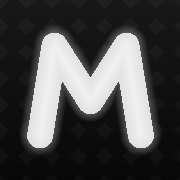
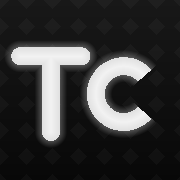
Renomeia marca para Tattoo Club (login, sistema, app e ícone TC)

Changed region(s): [[0.0278, 0.1389, 0.8889, 0.8611]]

diff --git a/index.html b/index.html
@@ -9,9 +9,9 @@
 <link rel="apple-touch-icon" href="icon-180.png">
 <meta name="apple-mobile-web-app-capable" content="yes">
 <meta name="apple-mobile-web-app-status-bar-style" content="black-translucent">
-<meta name="apple-mobile-web-app-title" content="Marquesani">
+<meta name="apple-mobile-web-app-title" content="Tattoo Club">
 <meta name="mobile-web-app-capable" content="yes">
-<title>Estúdio Marquesani • Club</title>
+<title>Tattoo Club</title>
 <style>
 :root{
   --bg:#0a0a0a; --surface:#181818; --surface2:#232323; --line:#3d3d3d;
@@ -57,7 +57,7 @@ input,select,textarea{font-family:inherit;font-size:15px}
 .brand-logo{width:44px;height:44px;border-radius:11px;flex:none;
   background:radial-gradient(circle at 30% 25%,#222222,#070707);
   border:1.5px solid var(--gold);display:flex;align-items:center;justify-content:center;
-  color:var(--gold2);font-family:var(--display);font-weight:400;font-size:26px;line-height:1;
+  color:var(--gold2);font-family:var(--display);font-weight:400;font-size:19px;line-height:1;letter-spacing:1px;
   box-shadow:var(--glow),inset 0 0 12px rgba(255,255,255,.22)}
 .brand-txt h1{font-family:var(--display);font-weight:400;font-size:21px;letter-spacing:1.5px;
   color:var(--gold2);text-shadow:0 0 14px rgba(255,255,255,.35)}
@@ -211,10 +211,10 @@ hr.sep{border:none;border-top:1px solid var(--line);margin:16px 0}
 <!-- ============ SIDEBAR ============ -->
 <aside class="sidebar">
   <div class="brand">
-    <div class="brand-logo">M</div>
+    <div class="brand-logo">TC</div>
     <div class="brand-txt">
-      <h1>MARQUESANI</h1>
-      <small>Club</small>
+      <h1>TATTOO CLUB</h1>
+      <small>Assinaturas</small>
     </div>
   </div>
   <nav class="nav">
@@ -320,7 +320,7 @@ hr.sep{border:none;border-top:1px solid var(--line);margin:16px 0}
   </div>
   <div class="card">
     <h2>ℹ Sobre</h2>
-    <p style="font-size:13px;color:var(--muted)">Sistema de controle de assinaturas do <b>Estúdio Marquesani Club</b>, baseado no regulamento oficial. Dados online (Supabase) — cada assinante acessa com login próprio e vê só o seu saldo.</p>
+    <p style="font-size:13px;color:var(--muted)">Sistema de controle de assinaturas do <b>Tattoo Club</b>, baseado no regulamento oficial. Dados online (Supabase) — cada assinante acessa com login próprio e vê só o seu saldo.</p>
   </div>
 </div>
 
@@ -335,22 +335,22 @@ hr.sep{border:none;border-top:1px solid var(--line);margin:16px 0}
 <style>
 #loginScreen{position:fixed;inset:0;z-index:60;display:flex;align-items:center;justify-content:center;padding:22px;background:radial-gradient(120% 80% at 50% 0,rgba(255,255,255,.06),transparent 60%),var(--bg)}
 .login-card{width:100%;max-width:360px;text-align:center}
-.login-logo{width:66px;height:66px;border-radius:16px;margin:0 auto 14px;display:flex;align-items:center;justify-content:center;font-family:var(--display);font-weight:400;font-size:38px;color:var(--gold2);background:radial-gradient(circle at 30% 25%,#232323,#050505);border:1.5px solid var(--gold);box-shadow:var(--glow)}
+.login-logo{width:66px;height:66px;border-radius:16px;margin:0 auto 14px;display:flex;align-items:center;justify-content:center;font-family:var(--display);font-weight:400;font-size:28px;letter-spacing:2px;color:var(--gold2);background:radial-gradient(circle at 30% 25%,#232323,#050505);border:1.5px solid var(--gold);box-shadow:var(--glow)}
 .login-card h1{font-family:var(--display);font-weight:400;letter-spacing:2px;font-size:26px;margin-bottom:2px}
 .login-card .sub{color:var(--muted);font-size:11px;letter-spacing:3px;text-transform:uppercase;margin-bottom:22px}
 .login-err{color:var(--red);font-size:13px;min-height:18px;margin:6px 0}
 #subScreen{min-height:100vh;display:flex;flex-direction:column}
 .sub-top{position:sticky;top:0;z-index:5;display:flex;align-items:center;gap:12px;padding:16px 18px;border-bottom:1px solid var(--line);background:rgba(11,9,6,.9);backdrop-filter:blur(10px)}
-.sub-top .lg{width:38px;height:38px;border-radius:10px;flex:none;display:flex;align-items:center;justify-content:center;font-family:var(--display);color:var(--gold2);border:1.5px solid var(--gold);font-size:20px}
+.sub-top .lg{width:38px;height:38px;border-radius:10px;flex:none;display:flex;align-items:center;justify-content:center;font-family:var(--display);color:var(--gold2);border:1.5px solid var(--gold);font-size:15px;letter-spacing:1px}
 .sub-top h2{font-family:var(--display);font-weight:400;letter-spacing:1px;font-size:18px;flex:1}
 .sub-wrap{max-width:560px;width:100%;margin:0 auto;padding:20px 18px 60px}
 </style>
 
 <div id="loginScreen" style="display:none">
   <div class="login-card">
-    <div class="login-logo">M</div>
-    <h1>MARQUESANI</h1>
-    <div class="sub">Club · Acesso</div>
+    <div class="login-logo">TC</div>
+    <h1>TATTOO CLUB</h1>
+    <div class="sub">Acesso</div>
     <label class="f" style="text-align:left"><span>E-mail</span>
       <input class="i" type="email" id="loginEmail" autocomplete="username" placeholder="voce@exemplo.com"></label>
     <label class="f" style="text-align:left"><span>Senha</span>
@@ -362,7 +362,7 @@ hr.sep{border:none;border-top:1px solid var(--line);margin:16px 0}
 
 <div id="subScreen" style="display:none">
   <div class="sub-top">
-    <div class="lg">M</div>
+    <div class="lg">TC</div>
     <h2 id="subHello">Olá</h2>
     <button class="btn danger sm" onclick="doLogout()">Sair</button>
   </div>
@@ -372,7 +372,7 @@ hr.sep{border:none;border-top:1px solid var(--line);margin:16px 0}
 <script src="supabase.min.js"></script>
 <script>
 /* ============================================================
-   ESTÚDIO MARQUESANI CLUB — dados + lógica
+   TATTOO CLUB — dados + lógica
    ============================================================ */
 const PLANOS = {
   FLASH:     {nome:'FLASH',     valor:150, bonus:20,  cor:'b-flash'},
@@ -891,7 +891,7 @@ function closeModal(){ document.getElementById('modalRoot').innerHTML=''; if(ME.
 function exportData(){
   const blob=new Blob([JSON.stringify(DB,null,2)],{type:'application/json'});
   const a=document.createElement('a'); a.href=URL.createObjectURL(blob);
-  a.download='marquesani-club-backup-'+todayISO()+'.json'; a.click();
+  a.download='tattoo-club-backup-'+todayISO()+'.json'; a.click();
   toast('Backup exportado ✓');
 }
 
@@ -958,7 +958,7 @@ function renderSubscriber(){
   const hello = document.getElementById('subHello');
   if(!p){
     if(hello) hello.textContent='Olá';
-    box.innerHTML = `<div class="empty"><div class="em">🔒</div>Sua conta ainda não está vinculada a uma assinatura.<br>Fale com o Estúdio Marquesani.</div>`;
+    box.innerHTML = `<div class="empty"><div class="em">🔒</div>Sua conta ainda não está vinculada a uma assinatura.<br>Fale com o Tattoo Club.</div>`;
     return;
   }
   const s = saldoParticipante(p.id); const pl=PLANOS[p.plano]||PLANOS.FLASH;

diff --git a/sw.js b/sw.js
@@ -1,5 +1,5 @@
 /* Service Worker — Estúdio Marquesani Club */
-const CACHE = 'marquesani-club-v9';
+const CACHE = 'marquesani-club-v10';
 const ASSETS = [
   './',
   './index.html',
